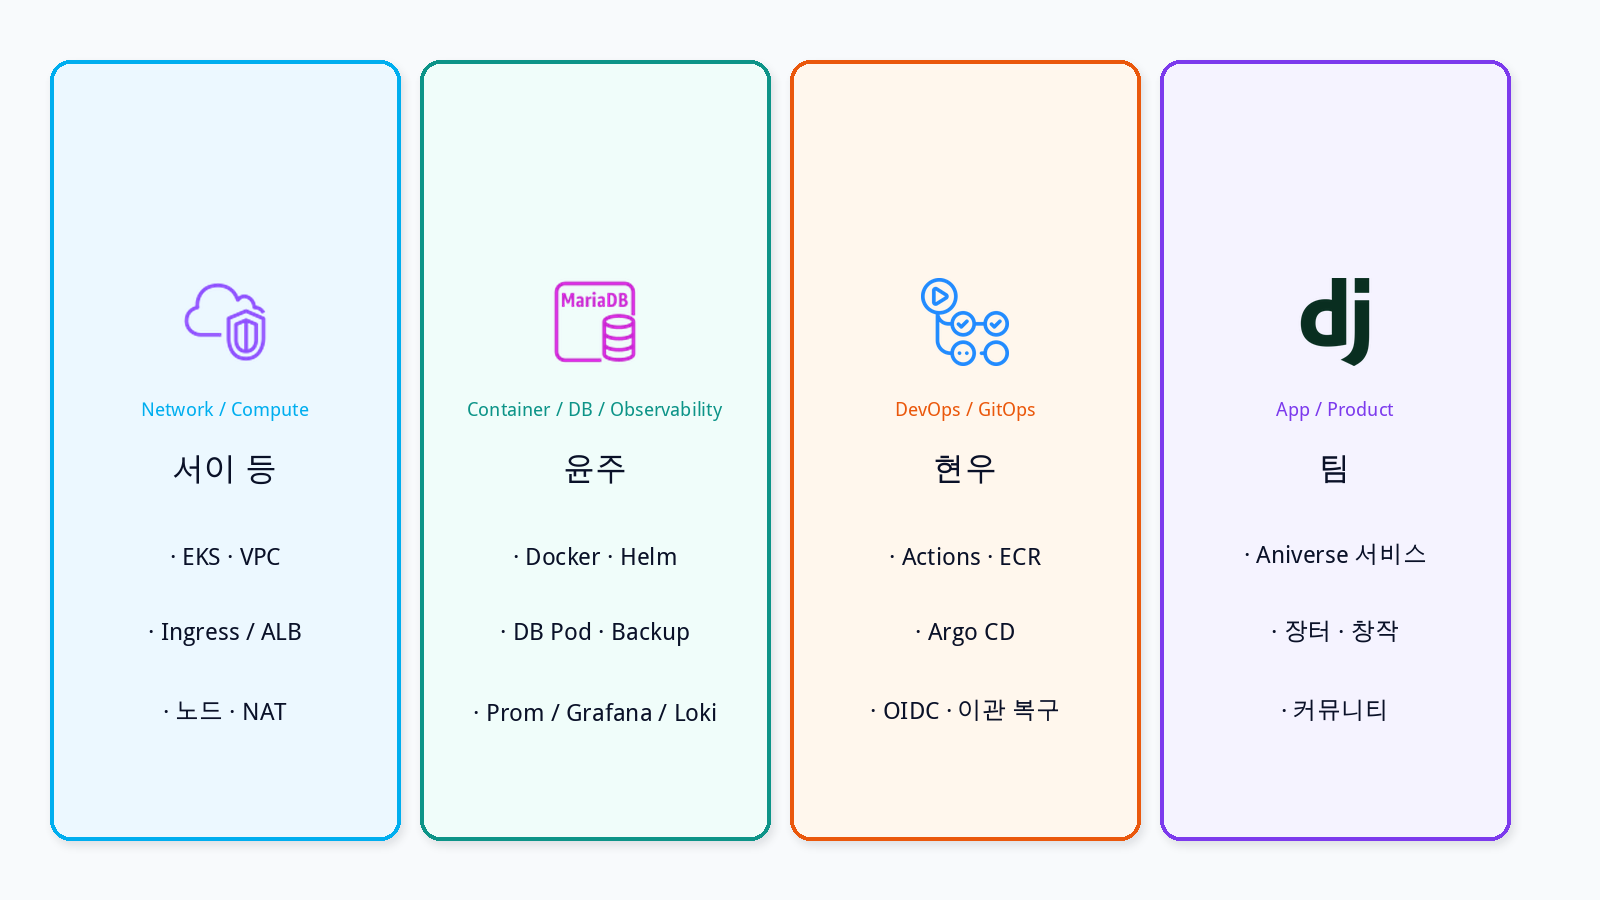
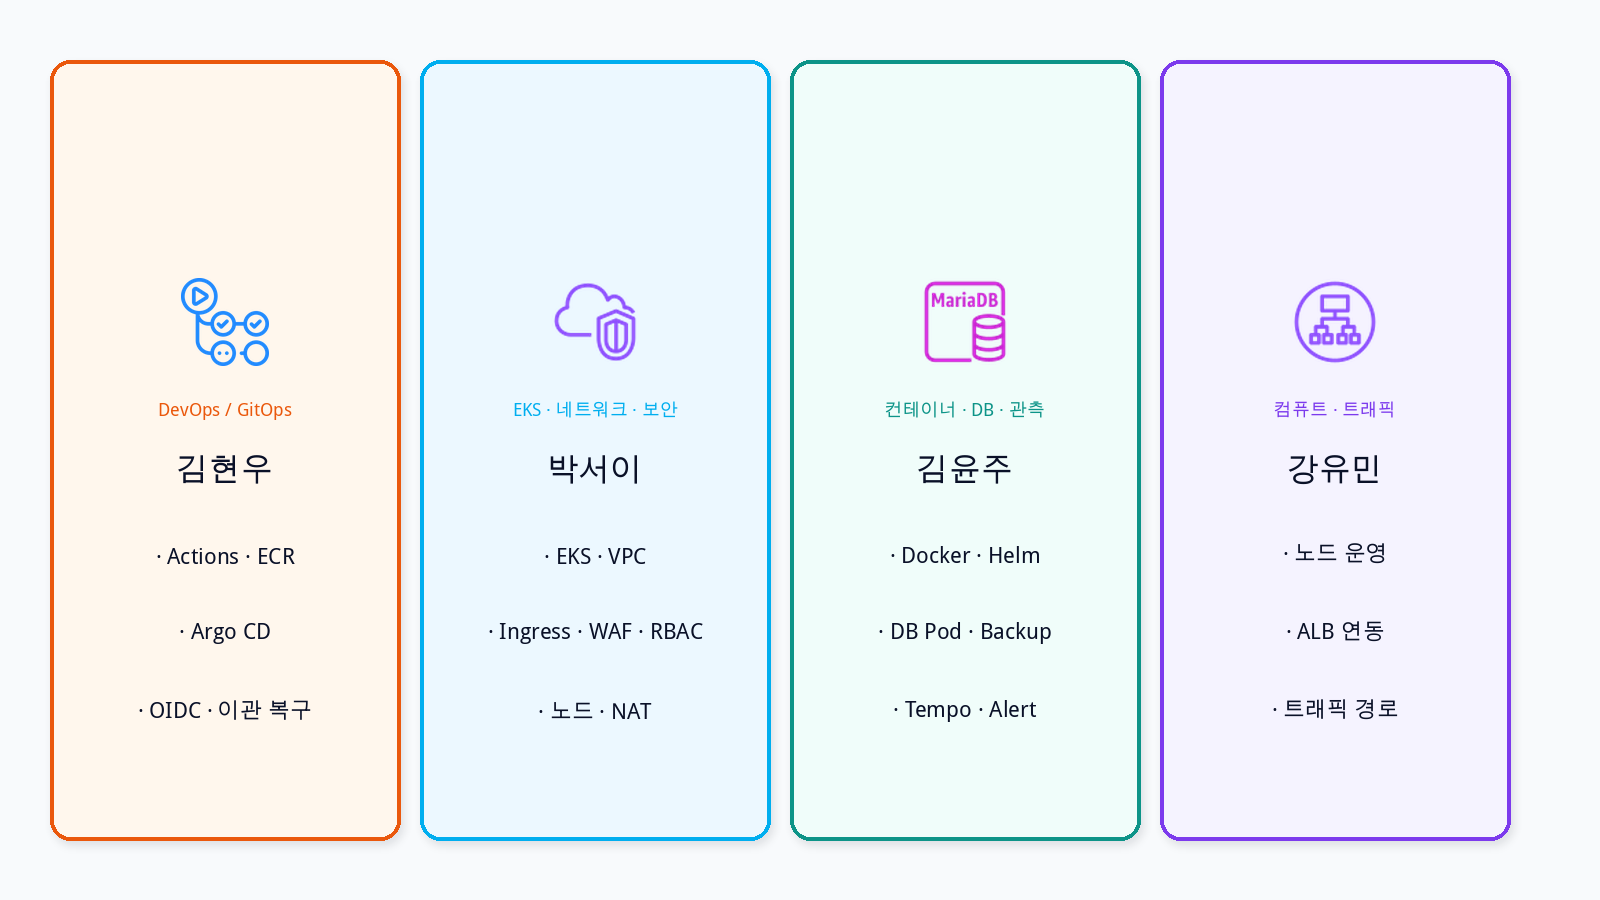
docs(presentation): 팀 역할분담 슬라이드 분리 (19장)
Q&A에 있던 역할 설명을 전용 18장으로 분리하고, 4명 이름·영역을
발표자료 카드 스타일(hybrid_00_roles)에 맞춰 정리. Q&A는 감사·팀명만 유지.

diff --git a/docs/presentation/make_aniverse_v1v2_ppt.py b/docs/presentation/make_aniverse_v1v2_ppt.py
@@ -28,7 +28,7 @@ OUT.mkdir(parents=True, exist_ok=True)
 
 SW, SH = 13.333, 7.5
 STEM = "Aniverse_V1V2_발표"
-TOTAL = 18
+TOTAL = 19
 WORKING = OUT / "Aniverse_V1V2_발표_working.pptx"
 
 NAVY = RGBColor(15, 23, 42)
@@ -605,60 +605,40 @@ def slide_schedule(prs):
     s.shapes.add_picture(str(path), Inches(0), Inches(0), width=Inches(SW), height=Inches(SH))
 
 
+def slide_roles(prs):
+    """팀 역할분담 — Q&A에서 분리한 전용 장."""
+    s = blank(prs)
+    bg(s)
+    title_center(s, "팀 역할분담", size=34)
+    put_img(s, "hybrid_00_roles.png", top=Inches(0.95), bottom=Inches(7.05))
+    footer(s, 18)
+
+
 def slide_qa(prs):
     s = blank(prs)
     bg(s, NAVY)
-    box = s.shapes.add_textbox(Inches(0.8), Inches(2.0), Inches(11.7), Inches(1.2))
+    box = s.shapes.add_textbox(Inches(0.8), Inches(2.4), Inches(11.7), Inches(1.2))
     set_text(box.text_frame, "Q & A", 54, True, WHITE, PP_ALIGN.CENTER)
-    sub = s.shapes.add_textbox(Inches(0.8), Inches(3.3), Inches(11.7), Inches(0.5))
+    sub = s.shapes.add_textbox(Inches(0.8), Inches(3.8), Inches(11.7), Inches(0.6))
     set_text(
         sub.text_frame,
         "감사합니다  ·  Aniverse Architecture V1 → V2",
-        20,
+        22,
         False,
         RGBColor(191, 219, 254),
         PP_ALIGN.CENTER,
     )
-    roles = s.shapes.add_textbox(Inches(1.2), Inches(4.3), Inches(10.9), Inches(1.8))
-    set_text(roles.text_frame, "팀 역할", 18, True, WHITE, PP_ALIGN.CENTER)
-    add_para(
-        roles.text_frame,
-        "김현우 — GitOps · CI/CD (Actions · Argo · OIDC)",
-        16,
+    team = s.shapes.add_textbox(Inches(0.8), Inches(4.8), Inches(11.7), Inches(0.5))
+    set_text(
+        team.text_frame,
+        "김현우  ·  박서이  ·  김윤주  ·  강유민",
+        18,
         False,
         RGBColor(226, 232, 240),
-        10,
-        PP_ALIGN.CENTER,
-    )
-    add_para(
-        roles.text_frame,
-        "박서이 — EKS · 네트워크 · 보안 (Ingress · WAF · RBAC)",
-        16,
-        False,
-        RGBColor(226, 232, 240),
-        6,
-        PP_ALIGN.CENTER,
-    )
-    add_para(
-        roles.text_frame,
-        "김윤주 — 컨테이너 · DB · 관측 (Helm · Tempo · Alert)",
-        16,
-        False,
-        RGBColor(226, 232, 240),
-        6,
-        PP_ALIGN.CENTER,
-    )
-    add_para(
-        roles.text_frame,
-        "강유민 — 컴퓨트 · 트래픽 (노드 · ALB 연동)",
-        16,
-        False,
-        RGBColor(226, 232, 240),
-        6,
         PP_ALIGN.CENTER,
     )
     num = s.shapes.add_textbox(Inches(11.3), Inches(7.15), Inches(1.5), Inches(0.28))
-    set_text(num.text_frame, f"18 / {TOTAL}", 12, False, RGBColor(148, 163, 184), PP_ALIGN.RIGHT)
+    set_text(num.text_frame, f"19 / {TOTAL}", 12, False, RGBColor(148, 163, 184), PP_ALIGN.RIGHT)
 
 
 def main():
@@ -683,6 +663,7 @@ def main():
     slide_trouble_eks(prs)
     slide_trouble_observe(prs)
     slide_schedule(prs)
+    slide_roles(prs)
     slide_qa(prs)
 
     out = next_path()

diff --git a/docs/presentation/make_hybrid_diagrams.py b/docs/presentation/make_hybrid_diagrams.py
@@ -324,10 +324,42 @@ def make_db_architecture():
 def make_roles():
     img = Image.new("RGBA", (W, H), BG + (255,))
     panels = [
-        (50, CYAN, SOFT_BLUE, "Network / Compute", "서이 등", ["EKS · VPC", "Ingress / ALB", "노드 · NAT"], "vpc"),
-        (420, TEAL, SOFT_TEAL, "Container / DB / Observability", "윤주", ["Docker · Helm", "DB Pod · Backup", "Prom / Grafana / Loki"], "rds_maria"),
-        (790, ORANGE, SOFT_ORANGE, "DevOps / GitOps", "현우", ["Actions · ECR", "Argo CD", "OIDC · 이관 복구"], "githubactions"),
-        (1160, PURPLE, SOFT_PURPLE, "App / Product", "팀", ["Aniverse 서비스", "장터 · 창작", "커뮤니티"], "django"),
+        (
+            50,
+            ORANGE,
+            SOFT_ORANGE,
+            "DevOps / GitOps",
+            "김현우",
+            ["Actions · ECR", "Argo CD", "OIDC · 이관 복구"],
+            "githubactions",
+        ),
+        (
+            420,
+            CYAN,
+            SOFT_BLUE,
+            "EKS · 네트워크 · 보안",
+            "박서이",
+            ["EKS · VPC", "Ingress · WAF · RBAC", "노드 · NAT"],
+            "vpc",
+        ),
+        (
+            790,
+            TEAL,
+            SOFT_TEAL,
+            "컨테이너 · DB · 관측",
+            "김윤주",
+            ["Docker · Helm", "DB Pod · Backup", "Tempo · Alert"],
+            "rds_maria",
+        ),
+        (
+            1160,
+            PURPLE,
+            SOFT_PURPLE,
+            "컴퓨트 · 트래픽",
+            "강유민",
+            ["노드 운영", "ALB 연동", "트래픽 경로"],
+            "alb",
+        ),
     ]
     for x, color, bg, title, who, lines, icon in panels:
         y0, y1 = 60, 840
@@ -336,13 +368,12 @@ def make_roles():
         d.rounded_rectangle((x, y0, x + 350, y1), radius=20, outline=color, width=4)
         icon_size = 88
         block_h = icon_size + 55 + 45 + 55 + 3 * 78
-        # lower half of panel
         top = y0 + int((y1 - y0 - block_h) * 0.72)
         paste_icon(img, icon, x + 175, top + icon_size // 2, icon_size)
-        center_text(d, title, x + 175, top + icon_size + 42, fnt(19, True), color)
+        center_text(d, title, x + 175, top + icon_size + 42, fnt(18, True), color)
         center_text(d, who, x + 175, top + icon_size + 100, fnt(32, True), NAVY)
         for i, line in enumerate(lines):
-            center_text(d, "· " + line, x + 175, top + icon_size + 185 + i * 78, fnt(24), NAVY)
+            center_text(d, "· " + line, x + 175, top + icon_size + 185 + i * 78, fnt(22), NAVY)
     save(img, "hybrid_00_roles.png")
 
 

diff --git a/docs/presentation/CONTENT_V1V2_working.md b/docs/presentation/CONTENT_V1V2_working.md
@@ -3,7 +3,7 @@
 **기준 파일 (앞으로 여기 기준):**
 - `docs/presentation/ppt/Aniverse_V1V2_발표_working.pptx`
 - 생성 스크립트: `make_aniverse_v1v2_ppt.py` · 다이어그램: `make_hybrid_diagrams.py` · 일정: `make_v2_schedule.py`
-- 슬라이드: **18장** · 13.333×7.5 in
+- 슬라이드: **19장** · 13.333×7.5 in
 
 ---
 
@@ -28,7 +28,19 @@
 | 15 | 트러블슈팅 · EKS | 3행 | 서이 (HPA·생성순서·비밀번호) |
 | 16 | 트러블슈팅 · DB · 관측 | 3행 | 윤주 |
 | 17 | V2 일정 · 일자별 | 이미지 | 9/29 RBAC · DB·관측 일정 보강 |
-| 18 | Q & A | 텍스트 | 팀 역할 한 줄 |
+| 18 | 팀 역할분담 | 이미지 | `hybrid_00_roles.png` · Q&A에서 분리 |
+| 19 | Q & A | 텍스트 | 감사 · 팀 이름만 |
+
+---
+
+## 18. 팀 역할분담
+
+| 이름 | 영역 | 내용 |
+|------|------|------|
+| 김현우 | DevOps / GitOps | Actions · ECR · Argo CD · OIDC · 이관 복구 |
+| 박서이 | EKS · 네트워크 · 보안 | EKS · VPC · Ingress · WAF · RBAC · 노드 · NAT |
+| 김윤주 | 컨테이너 · DB · 관측 | Docker · Helm · DB Pod · Backup · Tempo · Alert |
+| 강유민 | 컴퓨트 · 트래픽 | 노드 운영 · ALB 연동 · 트래픽 경로 |
 
 ---
 
@@ -62,7 +74,7 @@
 
 ## 앞으로 작업 규칙
 
-1. 편집·재생성은 **이 18장 구조·문구**를 기준으로 한다.
+1. 편집·재생성은 **이 19장 구조·문구**를 기준으로 한다.
 2. 소스 오브 트루스 PPT: `ppt/Aniverse_V1V2_발표_working.pptx`
 3. 버전 올리면 `Aniverse_V1V2_발표_vN.pptx`로 쌓되, working도 같이 갱신한다.
 4. 생성: `python3 make_hybrid_diagrams.py` → `python3 make_v2_schedule.py` → `python3 make_aniverse_v1v2_ppt.py`

diff --git a/docs/presentation/SPEAKER_NOTES_V1V2.md b/docs/presentation/SPEAKER_NOTES_V1V2.md
@@ -1,10 +1,10 @@
-# Aniverse V1→V2 발표 대본 (작업 기준본 · 18장)
+# Aniverse V1→V2 발표 대본 (작업 기준본 · 19장)
 
 PPT: `ppt/Aniverse_V1V2_발표_working.pptx`  
 내용 문서: `CONTENT_V1V2_working.md`  
 생성: `python3 make_hybrid_diagrams.py` → `python3 make_v2_schedule.py` → `python3 make_aniverse_v1v2_ppt.py`
 
-## 18장 구성
+## 19장 구성
 
 | # | 슬라이드 | 멘트 |
 |---|----------|------|
@@ -25,7 +25,8 @@ PPT: `ppt/Aniverse_V1V2_발표_working.pptx`
 | 15 | 트러블슈팅 · EKS | 서이 |
 | 16 | 트러블슈팅 · DB·관측 | 윤주 |
 | 17 | V2 일정 | 9/29 RBAC · DB·관측 일정 보강 |
-| 18 | Q & A | 팀 역할 한 줄 |
+| 18 | 팀 역할분담 | 현우 GitOps · 서이 EKS/보안 · 윤주 DB/관측 · 유민 컴퓨트/트래픽 |
+| 19 | Q & A | 감사 · 팀 이름 |
 
 ## 8장 발표 멘트
 
